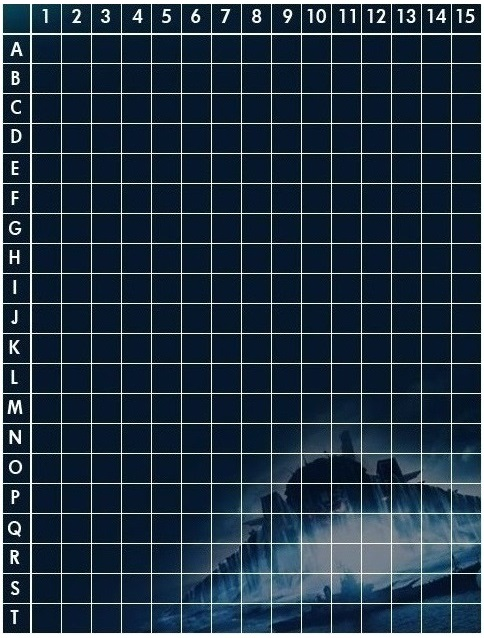
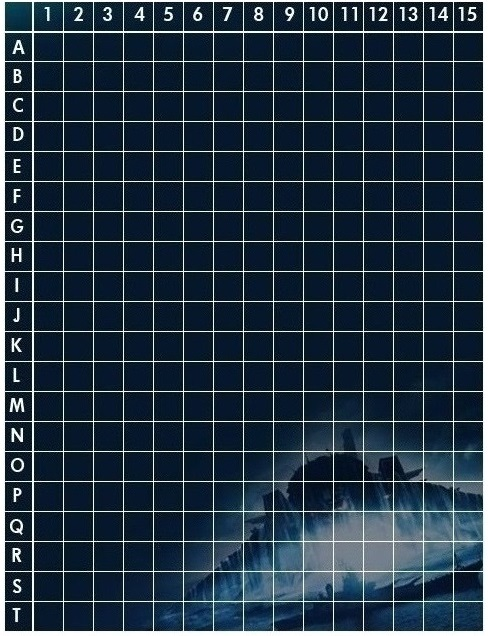
Fixed some stuff

Changed region(s): [[0.0, 0.0, 1.0, 1.0]]

diff --git a/Battleship2.0/Source/Board.java b/Battleship2.0/Source/Board.java
@@ -30,6 +30,10 @@ public class Board
 	
 	Board(LoadAssets assets, Player currentPlayer)
 	{
+		/*Toolkit toolkit = Toolkit.getDefaultToolkit();
+		Cursor m_CrossHair_C = toolkit.createCustomCursor(m_Assets.getImage("BattleShip_Y", 1) , new Point(20, 
+           20), "img");*/
+		  
 		m_Assets = assets;
 		m_CurrentPlayer = currentPlayer;
 		m_ShipCount = 0;
@@ -110,11 +114,15 @@ public class Board
 		    m_GameBoard_X_L[y] = new JLabel("");
 			m_GameBoard_X_L[y].setLayout(new BoxLayout(m_GameBoard_X_L[y], BoxLayout.X_AXIS));
 			m_GameBoard_X_L[y].setPreferredSize(new Dimension(m_boardWidth,m_boardHight/16));
+			m_GameBoard_X_L[y].setMinimumSize(new Dimension(m_boardWidth,m_boardHight/16));
+			m_GameBoard_X_L[y].setMaximumSize(new Dimension(m_boardWidth,m_boardHight/16));
 			
 			for(int x = 0; x < 16; x++)
 			{
 				tmp = new JLabel("");
 				tmp.setMaximumSize(new Dimension(m_boardWidth/16, m_boardHight/21));
+				tmp.setPreferredSize(new Dimension(m_boardWidth/16, m_boardHight/21));
+				tmp.setMinimumSize(new Dimension(m_boardWidth/16, m_boardHight/21));
 				tmp.setForeground(Color.WHITE);
 				m_GameBoard_X_L[y].add(tmp);
 			}
@@ -126,6 +134,8 @@ public class Board
 		    m_GameBoard_Y_L[x] = new JLabel("");
 			m_GameBoard_Y_L[x].setLayout(new BoxLayout(m_GameBoard_Y_L[x], BoxLayout.Y_AXIS));
 			m_GameBoard_Y_L[x].setPreferredSize(new Dimension(m_boardWidth/16,m_boardHight));
+			m_GameBoard_Y_L[x].setMinimumSize(new Dimension(m_boardWidth,m_boardHight/16));
+			m_GameBoard_Y_L[x].setMaximumSize(new Dimension(m_boardWidth,m_boardHight/16));
 			
 		    m_GameBoardTargets_L[x] = new JLabel("");
 			m_GameBoardTargets_L[x].setLayout(new BoxLayout(m_GameBoardTargets_L[x], BoxLayout.Y_AXIS));
@@ -165,7 +175,7 @@ public class Board
 		public void mouseEntered(java.awt.event.MouseEvent evt) 
 		{
 			if(m_ShipCount >= 5)
-			m_GameBoardTargets_L[m_x].getComponent(m_y).setCursor(new Cursor(Cursor.CROSSHAIR_CURSOR));
+			m_GameBoardTargets_L[m_x].getComponent(m_y).setCursor(m_CrossHair_C);
 		}
 
 		@Override
@@ -177,7 +187,12 @@ public class Board
 		public void mouseClicked(java.awt.event.MouseEvent evt)
 		{
 			System.out.println("here");
-			((JLabel) m_GameBoardTargets_L[m_x].getComponent(m_y)).setIcon(m_Assets.getImage("HitMarker"));
+			//((JLabel) m_GameBoardTargets_L[m_x].getComponent(m_y)).setIcon(m_Assets.getImage("HitMarker"));
+		}
+		@Override
+		public void mousePressed(java.awt.event.MouseEvent evt)
+		{
+			((JLabel) m_GameBoardTargets_L[m_x].getComponent(m_y)).setIcon(m_Assets.getImage("Target"));
 		}
 	}
 	public void addNextShip(Ship ship)
@@ -213,7 +228,10 @@ public class Board
 		if(ship.getAxis() == Ship.X_AXIS)
 		{
 			JLabel tmp = new JLabel("");
-			tmp.setMaximumSize(new Dimension((m_boardWidth/16),m_boardHight/21));
+			tmp.setMaximumSize(new Dimension(m_boardWidth/16, m_boardHight/21));
+			tmp.setPreferredSize(new Dimension(m_boardWidth/16, m_boardHight/21));
+			tmp.setMinimumSize(new Dimension(m_boardWidth/16, m_boardHight/21));
+			
 			tmp.setForeground(Color.WHITE);
 			m_GameBoard_X_L[y].remove(x);
 			m_GameBoard_X_L[y].add(tmp,x);
@@ -226,7 +244,10 @@ public class Board
 		}else
 		{
 			JLabel tmp = new JLabel("");
-			tmp.setMaximumSize(new Dimension((m_boardWidth/16),m_boardHight/21));
+			tmp.setMaximumSize(new Dimension(m_boardWidth/16, m_boardHight/21));
+			tmp.setPreferredSize(new Dimension(m_boardWidth/16, m_boardHight/21));
+			tmp.setMinimumSize(new Dimension(m_boardWidth/16, m_boardHight/21));
+			
 			tmp.setForeground(Color.RED);
 			m_GameBoard_Y_L[x].remove(y);
 			m_GameBoard_Y_L[x].add(tmp,y);
@@ -244,7 +265,10 @@ public class Board
 		if(ship.getAxis() == Ship.X_AXIS)
 		{
 			JLabel shipL = new JLabel(ship.getName(),ship.getImage(ship.getAxis()), JLabel.LEADING);
-			shipL.setMaximumSize(new Dimension(ship.getLength()*(m_boardWidth/16),m_boardHight/21));
+			shipL.setMaximumSize(new Dimension(ship.getLength()*m_boardWidth/16, m_boardHight/21));
+			shipL.setPreferredSize(new Dimension(ship.getLength()*m_boardWidth/16, m_boardHight/21));
+			shipL.setMinimumSize(new Dimension(ship.getLength()*m_boardWidth/16, m_boardHight/21));
+			
 			m_GameBoard_X_L[y].remove(x);
 			m_GameBoard_X_L[y].add(shipL,x);
 			
@@ -256,7 +280,9 @@ public class Board
 		}else
 		{
 			JLabel shipL = new JLabel(ship.getName(),ship.getImage(ship.getAxis()), JLabel.LEADING);
-			shipL.setMaximumSize(new Dimension((m_boardWidth/16),ship.getLength()*m_boardHight/21));
+			shipL.setMaximumSize(new Dimension(m_boardWidth/16, (ship.getLength()*m_boardHight)/21));
+			shipL.setPreferredSize(new Dimension(m_boardWidth/16, (ship.getLength()*m_boardHight)/21));
+			shipL.setMinimumSize(new Dimension(m_boardWidth/16, (ship.getLength()*m_boardHight)/21));
 			m_GameBoard_Y_L[x].remove(y);
 			m_GameBoard_Y_L[x].add(shipL,y);
 			

diff --git a/Battleship2.0/Source/LoadAssets.java b/Battleship2.0/Source/LoadAssets.java
@@ -21,7 +21,8 @@ public class LoadAssets
 	private ImageIcon m_StartGame_B, m_Battleship_X, m_Battleship_Y, m_AircraftCarrier_X, m_AircraftCarrier_Y;
 	private ImageIcon m_Cruiser_X, m_Destroyer_X, m_Destroyer_Y, m_Submarine_X,m_Submarine_Y;
 	private ImageIcon m_Cruiser_Y;
-	private ImageIcon m_HitMarker;
+	private ImageIcon m_HitMarker, m_Target;
+	private Image m_Cursor;
 	LoadAssets()
 	{
 		GraphicsDevice gd = GraphicsEnvironment.getLocalGraphicsEnvironment().getDefaultScreenDevice();// geting size of screen
@@ -37,6 +38,8 @@ public class LoadAssets
 		m_GameBackground = loadGameImage("GameBG.jpg", ScreenWidth, ScreenHeight);
 		
 		m_HitMarker = loadGameImage("HitMarker.png",m_Board.getIconWidth()/16,  m_Board.getIconHeight()/21);
+		m_Target = loadGameImage("Target.png",m_Board.getIconWidth()/16,  m_Board.getIconHeight()/21);
+		m_Cursor = getShipImages("Battleship.png", Ship.BATTLESHIP_LENGTH, false);
 		
 		m_BackToMainMenu_B = loadButtonImage("BackToMainMenuButton.png");
 		m_Exit_B = loadButtonImage("ExitButton.png");
@@ -78,6 +81,8 @@ public class LoadAssets
 			
 			case "HitMarker": return m_HitMarker;
 			
+			case "Target": return m_Target;
+			
 			case "BackToMainMenuButton": return m_BackToMainMenu_B;
 			
 			case "ExitButton": return m_Exit_B;
@@ -109,6 +114,10 @@ public class LoadAssets
 			
 			default: System.out.println("Image Not Found: " + name); return null;
 		}
+	}
+	public Image getImage(String name, int domb)
+	{
+		return m_Cursor;
 	}
 	
 	private ImageIcon loadGameImage(String name, int w, int h)
@@ -200,6 +209,42 @@ public class LoadAssets
 			}
 		}
 		
+		return null;
+	}
+	private Image getShipImages(String name, int scale, boolean orientation)
+	{
+		String path = "";
+		path = System.getProperty("user.dir");
+		path = path.replace('\\','/');
+		path = path.replaceAll("Source", "Assets/Ships/" + name);
+		Image img;
+		int height = m_Board.getIconHeight()/21;
+		int width = m_Board.getIconWidth()/16;
+		
+		if(orientation)
+		{
+			try 
+			{
+				img = ImageIO.read(new File(path));
+				img = img.getScaledInstance(width*scale, height,  java.awt.Image.SCALE_SMOOTH);
+				return img;
+			} catch (IOException ex) 
+			{
+				System.out.println("FIle Not Found\nFile Path: " + path);System.exit(1);
+			}
+		}else
+		{
+			try 
+			{
+				img = ImageIO.read(new File(path));
+				img = img.getScaledInstance(width, height*scale,  java.awt.Image.SCALE_SMOOTH);
+				return img;
+			} catch (IOException ex) 
+			{
+				System.out.println("FIle Not Found\nFile Path: " + path);System.exit(1);
+			}
+		}
+
 		return null;
 	}
 }
